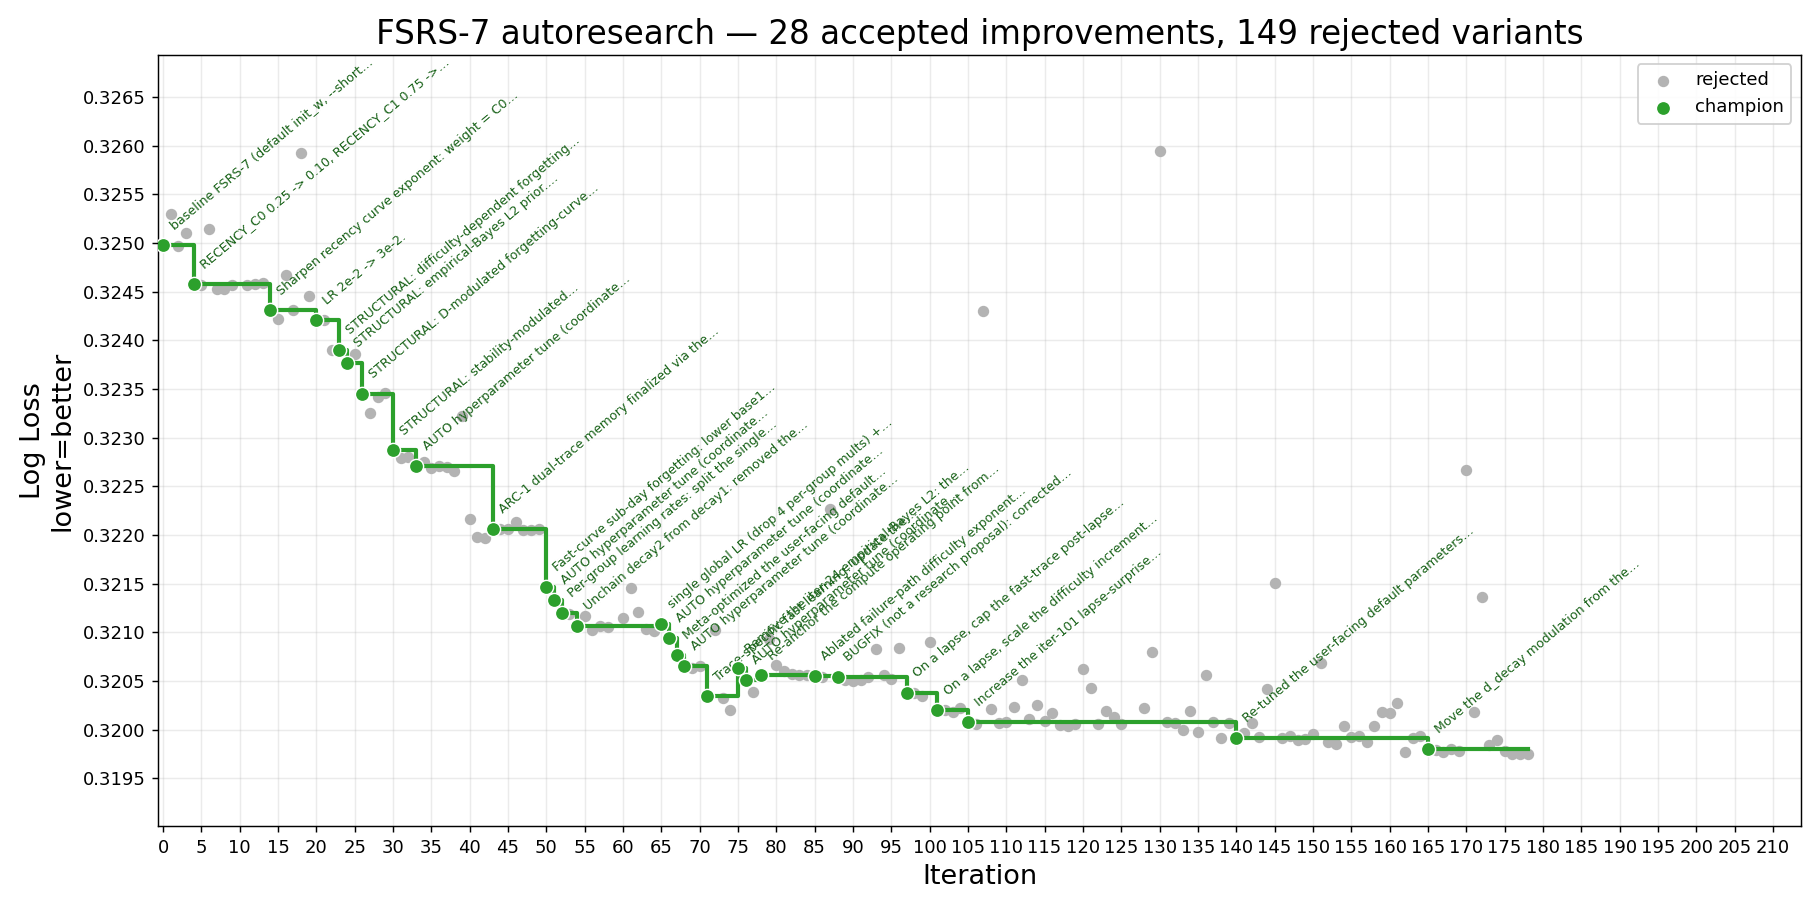
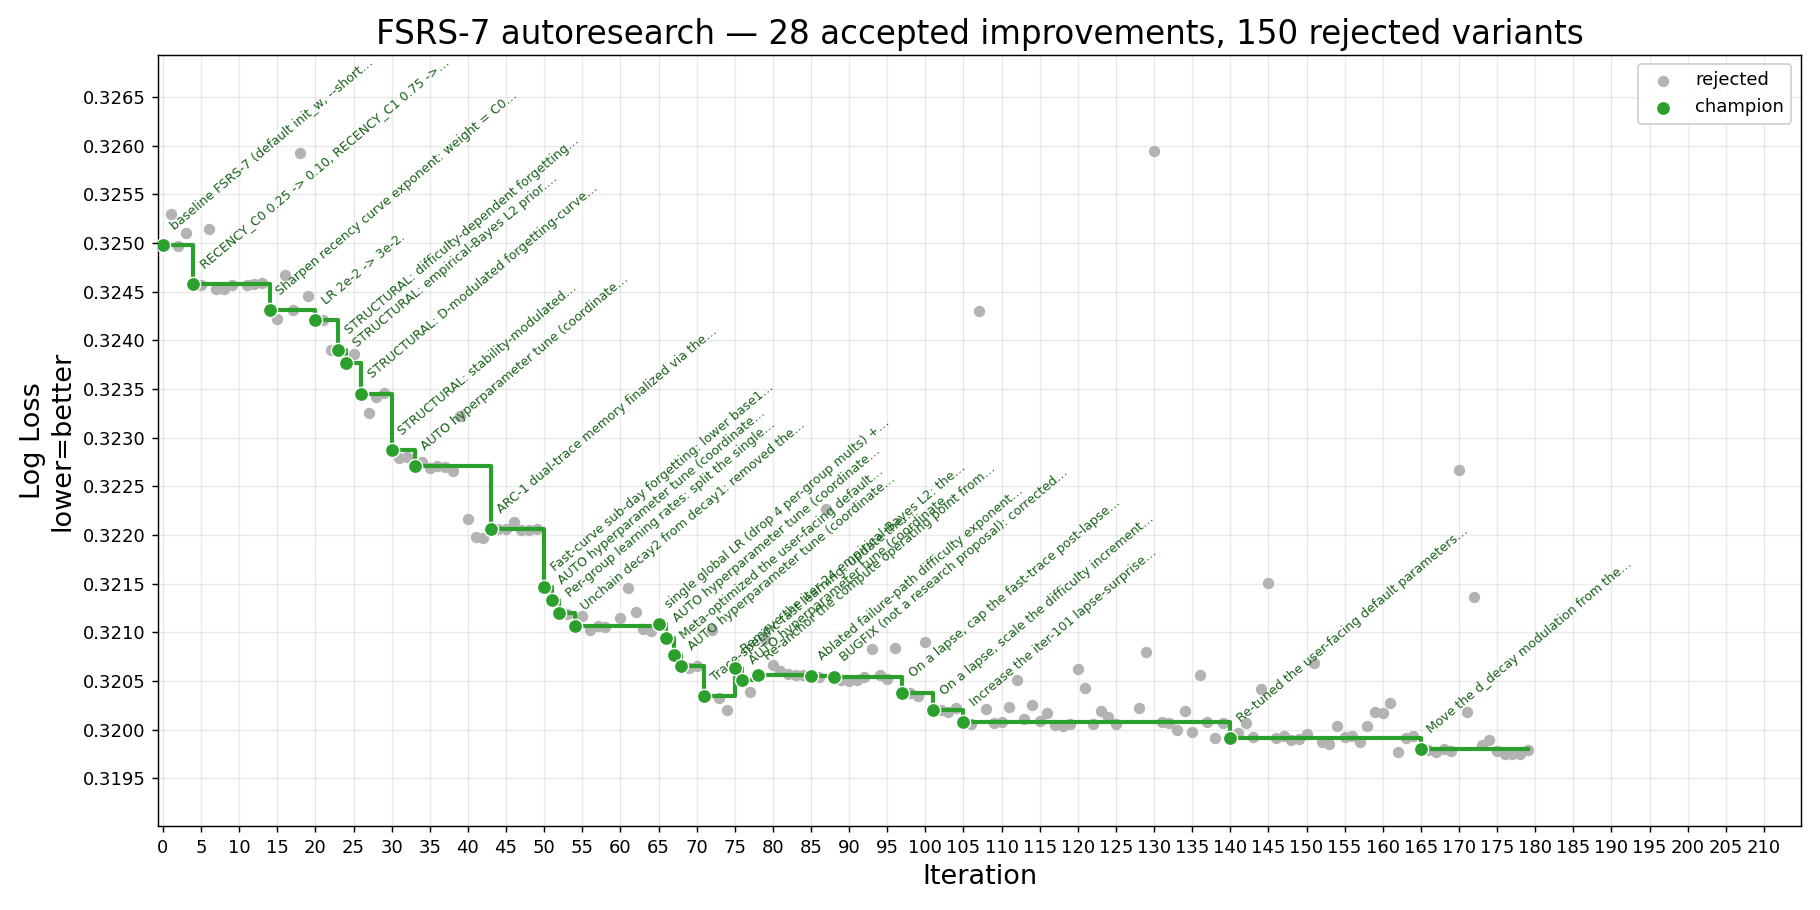
iter-179: encoding-side fatigue (n_before in s_inc), peak +1.1e-5 - frontier-bound, rejected; n_before feature mapped sub-threshold

diff --git a/result/history.md b/result/history.md
@@ -1,6 +1,6 @@
 # FSRS-7 autoresearch — iteration history
 
-_178 record(s). Generated from `history.jsonl` — do not edit by hand._
+_179 record(s). Generated from `history.jsonl` — do not edit by hand._
 
 | # | Time (UTC) | Thresh. | LL before | LL after | Δ LL | Cx before | Cx after | Δ Cx % | Status | Summary |
 |--:|---|---:|---:|---:|---:|---:|---:|---:|---|---|
@@ -182,3 +182,4 @@ _178 record(s). Generated from `history.jsonl` — do not edit by hand._
 | 176 | 2026-06-10T05:28:27 | 0.0001 | 0.31980 | 0.31975 | +0.00006 | 17,631 | 17,833 | +1.15% | rejected | SWA tail: cosine LR floor 0.15 + per-row uniform parameter averaging over the final 25% of training steps. |
 | 177 | 2026-06-10T05:48:54 | 0.0001 | 0.31980 | 0.31975 | +0.00005 | 17,631 | 17,833 | +1.15% | rejected | Sweep SWA (eta_min, start_frac) over (0,0.75),(0.08,0.75),(0.25,0.75),(0.15,0.5),(0.15,0.85). |
 | 178 | 2026-06-10T06:35:41 | 0.0010 | 0.31980 | 0.31975 | +0.00006 | 17,631 | 17,690 | +0.33% | rejected | n_before fatigue clock on the long curve component, exp(K*n/(n+300)); K swept over 0.15/0.3/0.6. |
+| 179 | 2026-06-10T06:46:02 | 0.0010 | 0.31980 | 0.31979 | +0.00001 | 17,631 | 17,742 | +0.63% | rejected | Encoding fatigue: long-trace success stability increment scaled by exp(-K2*n/(n+300)); K2 swept 0.15/0.3/0.6. |
